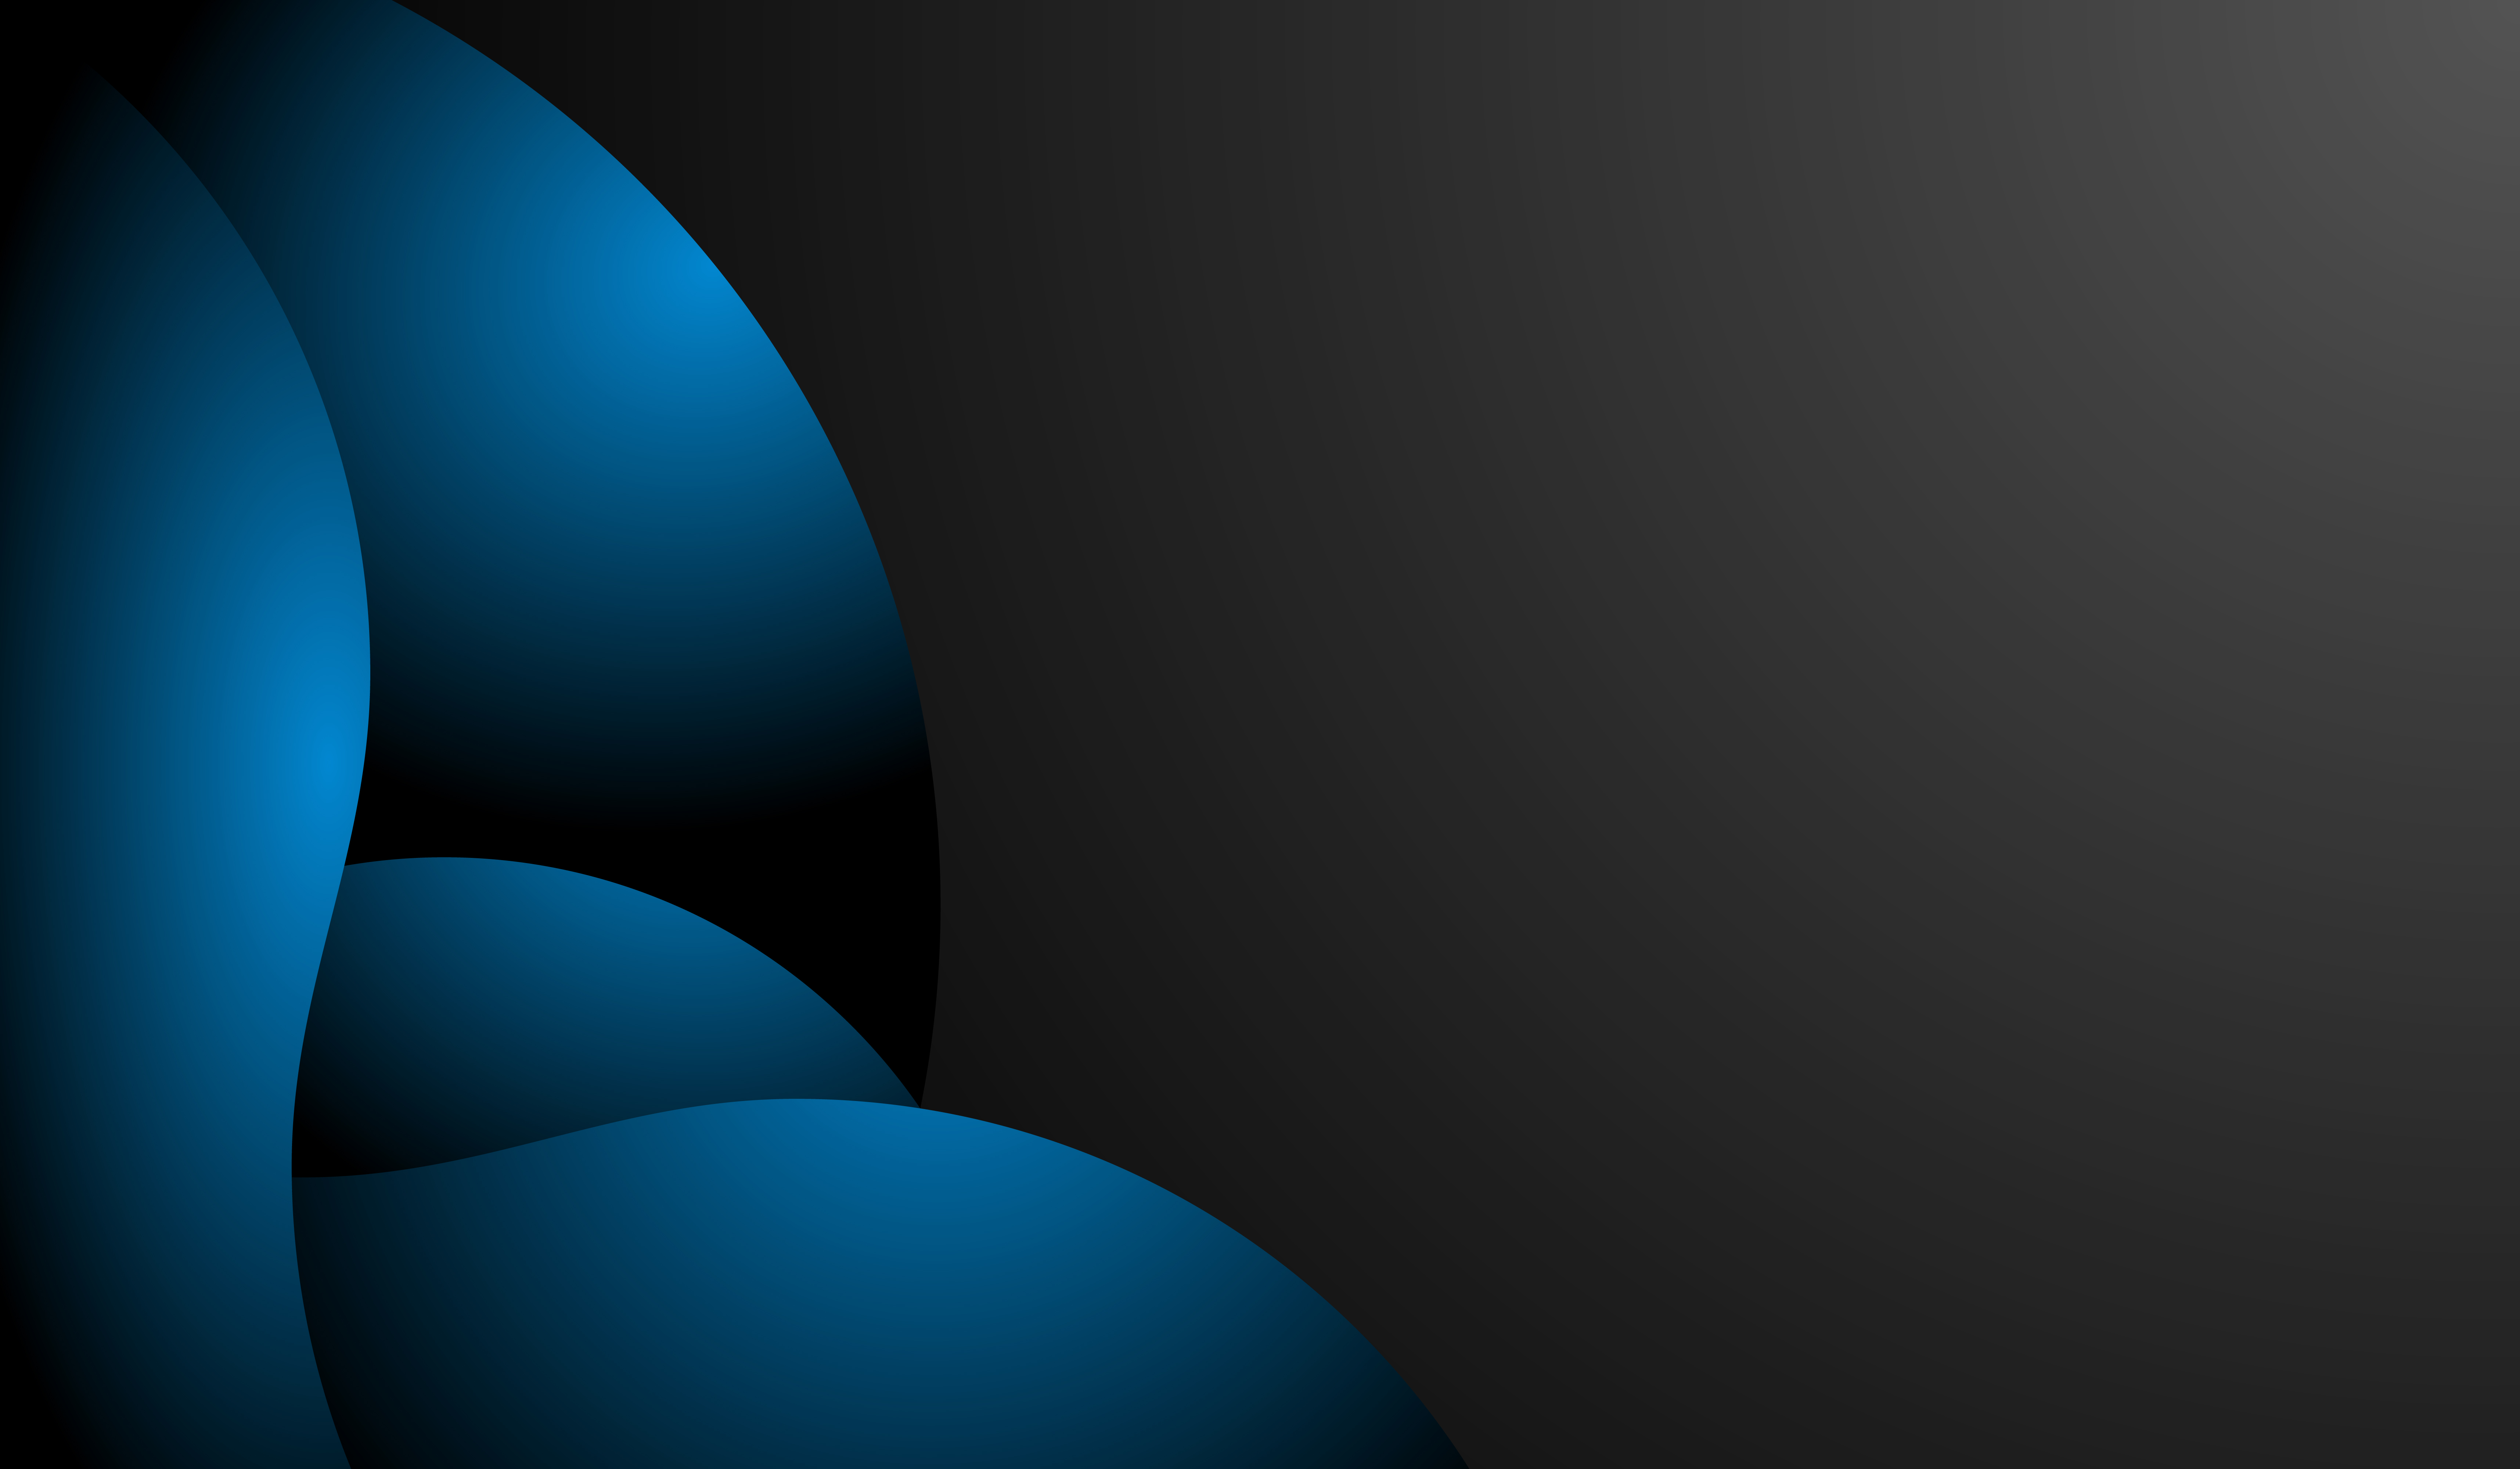
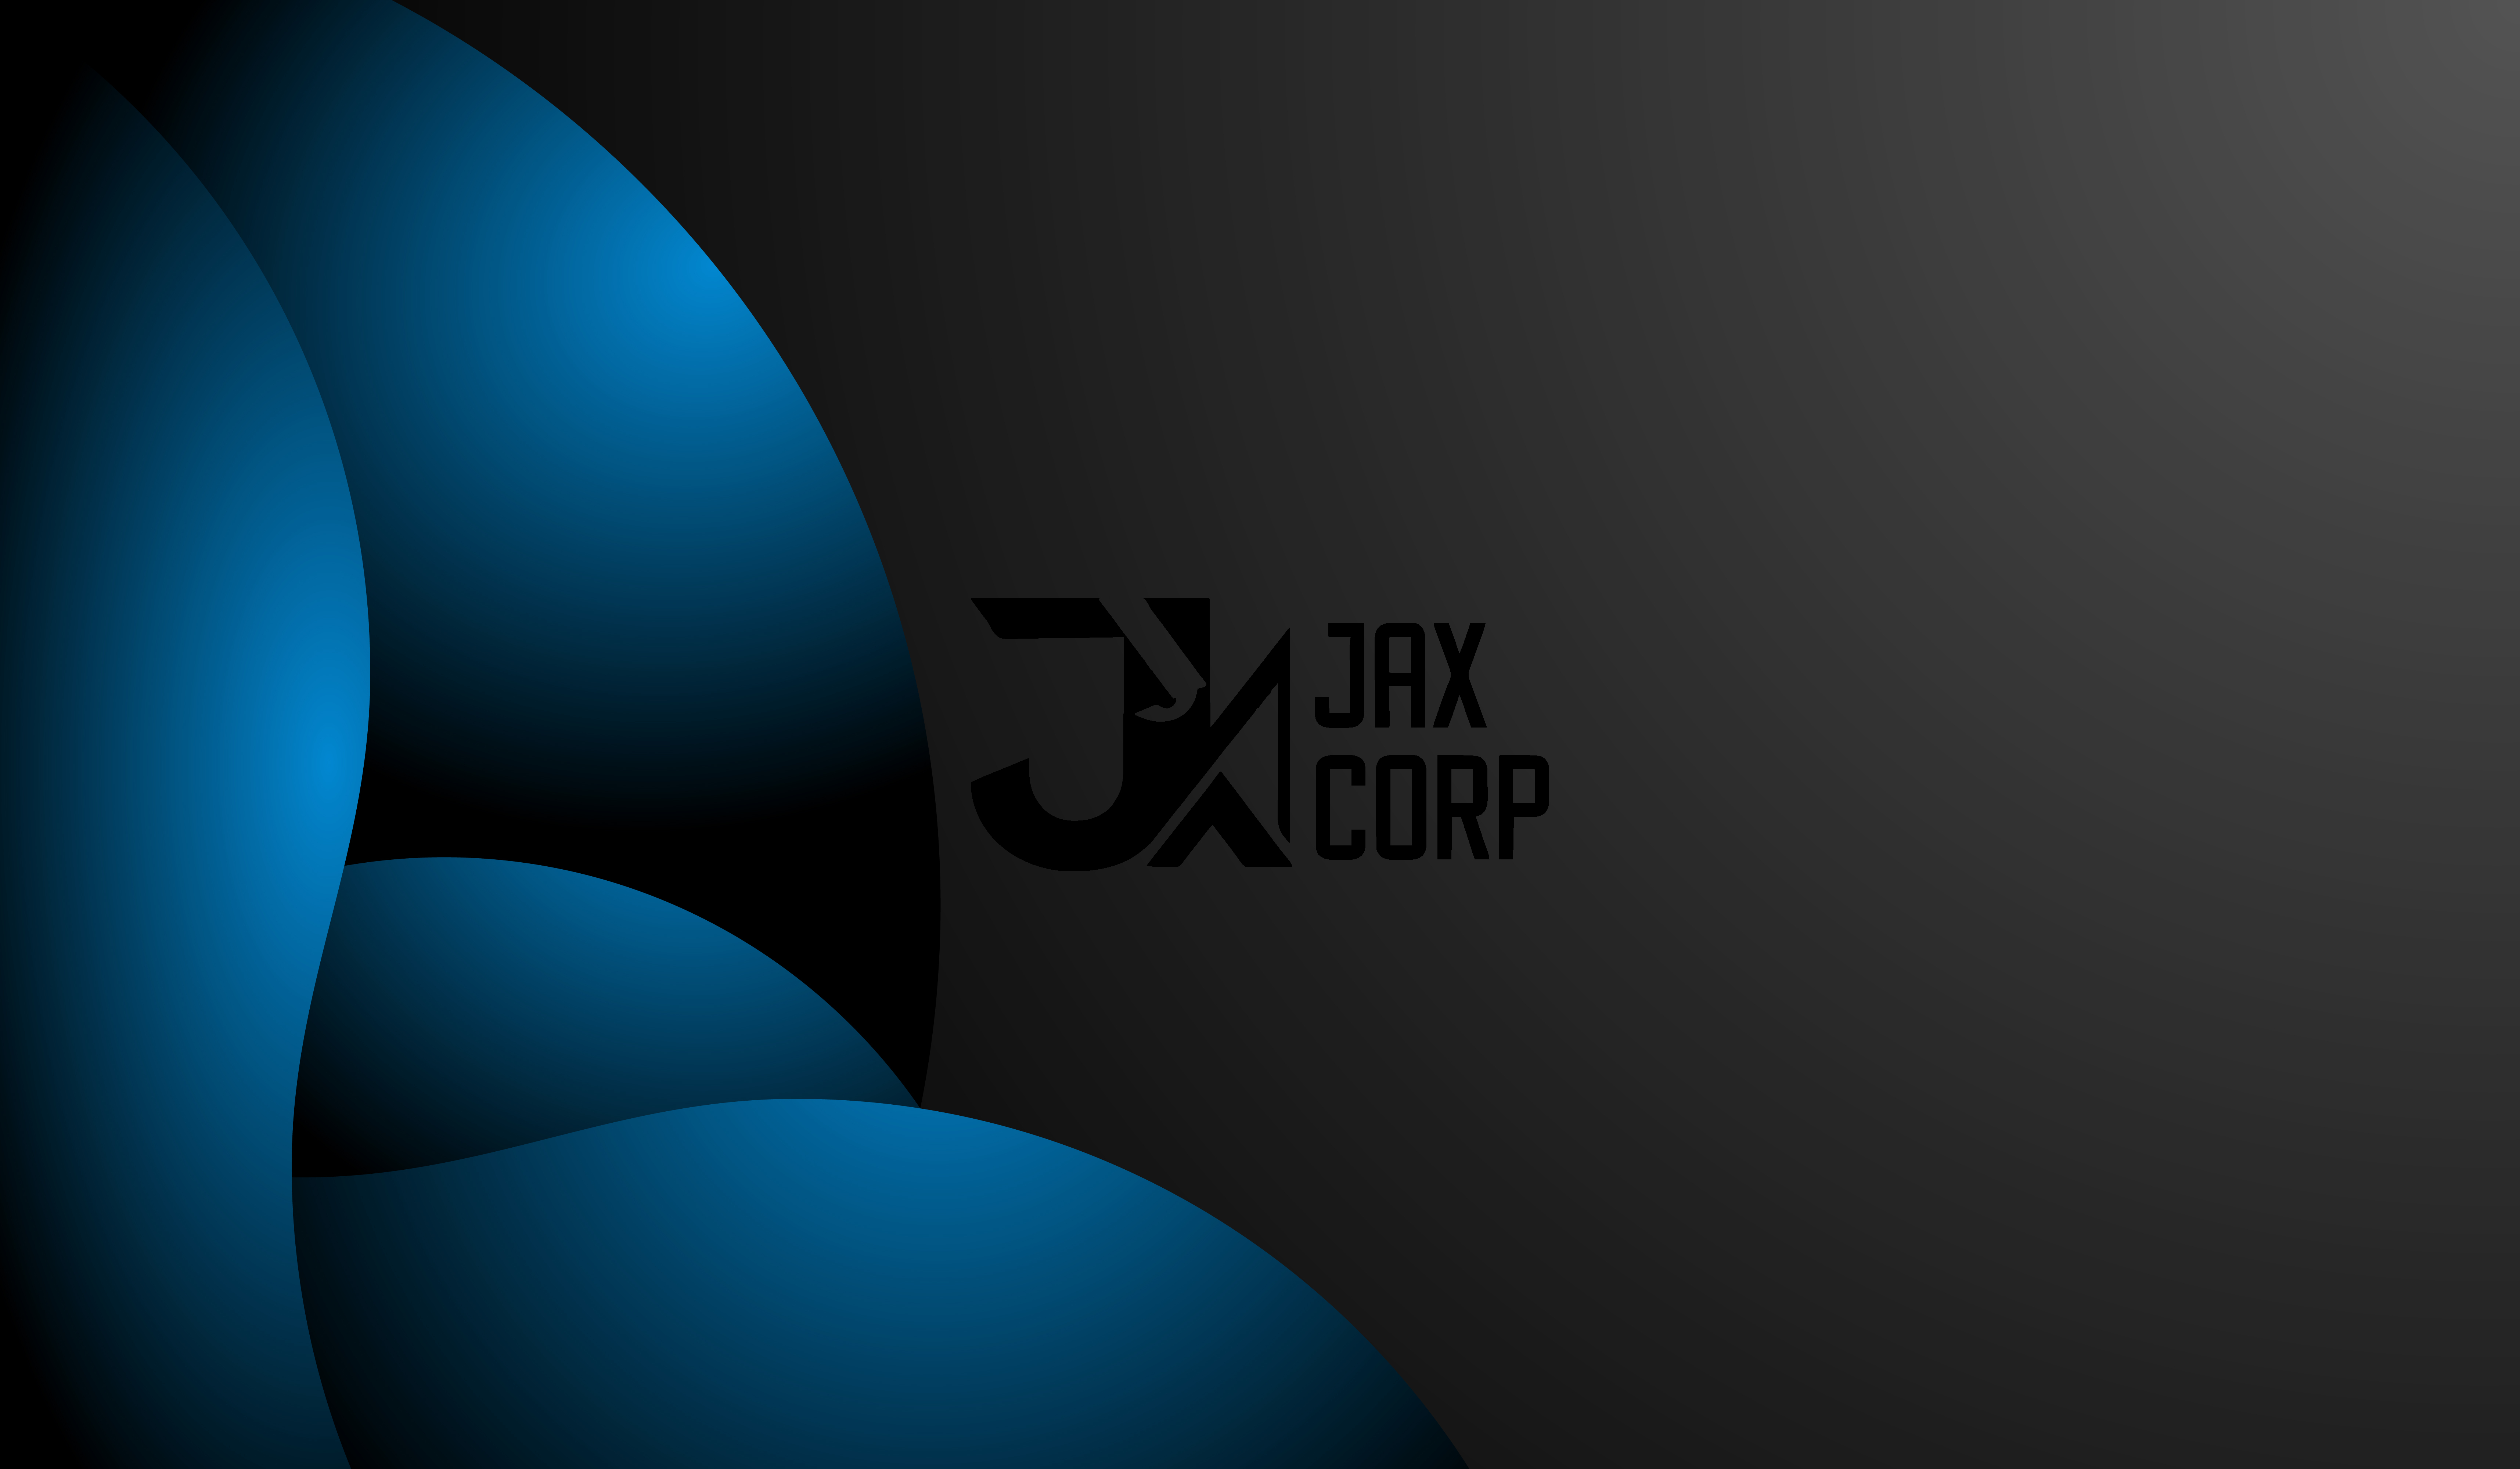
added video filter; videos only play 5 seconds; new bg image; fixes to login page

Changed region(s): [[0.3743, 0.4062, 0.6239, 0.5938]]

diff --git a/Vector/desktop.html b/Vector/desktop.html
@@ -142,14 +142,15 @@
     #player-overlay {
       display:none;
       position:fixed; inset:0;
-      background:rgba(0,0,0,0.85);
+      background:#000;
       z-index:200;
       align-items:center; justify-content:center;
     }
     #player-overlay.active { display:flex; }
 
     #player-window {
-      width:min(680px,96vw);
+      width: 98vw;
+      height: 97vh;
       background:#1c1c1c;
       border:2px solid #555;
       box-shadow:0 8px 60px rgba(0,0,0,0.9);
@@ -161,7 +162,7 @@
     /* WMP-style titlebar */
     #player-titlebar {
       background: linear-gradient(to right, #1a1a2a 0%, #2a3a6a 60%, #1a1a2a 100%);
-      height:28px; display:flex; align-items:center;
+      height:28px; flex-shrink:0; display:flex; align-items:center;
       padding:0 8px; gap:6px;
       border-bottom:1px solid #333;
     }
@@ -185,7 +186,7 @@
     /* menu bar */
     #player-menu {
       background:#111; border-bottom:1px solid #222;
-      padding:2px 6px;
+      padding:2px 6px; flex-shrink:0;
       display:flex; gap:14px;
     }
     .pm-item {
@@ -194,26 +195,71 @@
     }
     .pm-item:hover { background:#2a2a3a; color:#bbb; }
 
-    /* video area */
+    /* video area — flex-grow so it fills all space */
     #video-container {
       background:#000;
       position:relative;
-      width:100%; aspect-ratio:16/9;
+      flex:1;
+      min-height:0;
       display:flex; align-items:center; justify-content:center;
+      overflow:hidden;
     }
     #main-video {
       width:100%; height:100%; object-fit:contain;
       display:block;
     }
+    /* grain canvas sits on top of video */
+    #grain-canvas {
+      position:absolute; inset:0;
+      width:100%; height:100%;
+      pointer-events:none;
+      mix-blend-mode: screen;
+      opacity:0.18;
+    }
+    /* vhs color aberration bars */
+    #vhs-overlay {
+      position:absolute; inset:0;
+      pointer-events:none;
+      background: repeating-linear-gradient(
+        to bottom,
+        transparent 0px,
+        transparent 3px,
+        rgba(0,0,0,0.04) 3px,
+        rgba(0,0,0,0.04) 4px
+      );
+      mix-blend-mode: multiply;
+    }
+    /* chromatic shift */
+    #chroma-overlay {
+      position:absolute; inset:0; pointer-events:none;
+      background: transparent;
+      box-shadow: inset 3px 0 0 rgba(255,0,0,0.08), inset -3px 0 0 rgba(0,180,255,0.06);
+    }
+    /* vignette */
+    #vignette {
+      position:absolute; inset:0; pointer-events:none;
+      background: radial-gradient(ellipse at center, transparent 55%, rgba(0,0,0,0.65) 100%);
+    }
+    /* timecode stamp */
+    #timecode {
+      position:absolute; bottom:8px; left:12px;
+      font-family:'Courier New',monospace; font-size:13px;
+      color:rgba(255,255,200,0.75);
+      text-shadow:1px 1px 3px #000;
+      pointer-events:none;
+      letter-spacing:0.05em;
+    }
     #video-placeholder {
       color:#333; font-family:Tahoma,sans-serif; font-size:13px;
       text-align:center; padding:20px;
+      position:absolute;
     }
 
     /* progress / controls */
     #player-controls {
       background:#1a1a1a; padding:6px 8px 4px;
       border-top:1px solid #2a2a2a;
+      flex-shrink:0;
     }
     #seek-track {
       width:100%; height:8px;
@@ -304,7 +350,7 @@
       <!-- shine -->
       <path d="M6 20 Q24 18 42 22" stroke="#ffe97a" stroke-width="1.5" opacity="0.7"/>
     </svg>
-    <div class="icon-label">CLASSIFIED</div>
+    <div class="icon-label">33.9425-118.4385</div>
   </div>
 </div>
 
@@ -342,7 +388,6 @@
     <path d="M50 44 C54 44 56 48 56 52 C56 56 54 60 50 62" stroke="white" stroke-width="1.5" stroke-linecap="round" fill="none"/>
   </svg>
   <div id="fp-text">PLEASE SCAN FINGERPRINT</div>
-  <div style="color:#444;font-size:12px;font-family:Tahoma,sans-serif;margin-top:20px;">click to continue</div>
 </div>
 
 <!-- MEDIA PLAYER -->
@@ -366,6 +411,11 @@
 
     <div id="video-container">
       <video id="main-video" preload="auto"></video>
+      <canvas id="grain-canvas"></canvas>
+      <div id="vhs-overlay"></div>
+      <div id="chroma-overlay"></div>
+      <div id="vignette"></div>
+      <div id="timecode"></div>
       <div id="video-placeholder">Loading media library...</div>
     </div>
 
@@ -504,29 +554,23 @@
     document.getElementById('btn-play').textContent = '❚❚ Pause';
     document.getElementById('btn-play').classList.add('active');
     renderPlaylist();
-    // update seek
     updateSeek();
   }
 
-  function updateSeek() {
-    if (!vid.duration) {
-      document.getElementById('seek-fill').style.width = '0%';
-      document.getElementById('time-display').textContent = '0:00 / 0:00';
-      return;
+  // Fix 7: advance to next track after 5 seconds
+  vid.addEventListener('timeupdate', () => {
+    updateSeek();
+    if (vid.currentTime >= 5) {
+      if (currentIndex + 1 < playlist.length) {
+        loadTrack(currentIndex + 1);
+      } else {
+        vid.pause();
+        document.getElementById('status-text').textContent = 'End of playlist.';
+        document.getElementById('btn-play').textContent = '▶ Play';
+      }
     }
-    const pct = (vid.currentTime / vid.duration) * 100;
-    document.getElementById('seek-fill').style.width = pct + '%';
-    document.getElementById('time-display').textContent =
-      fmt(vid.currentTime) + ' / ' + fmt(vid.duration);
-  }
+  });
 
-  function fmt(s) {
-    const m = Math.floor(s/60);
-    const sec = Math.floor(s%60).toString().padStart(2,'0');
-    return m+':'+sec;
-  }
-
-  vid.addEventListener('timeupdate', updateSeek);
   vid.addEventListener('ended', () => {
     if (currentIndex + 1 < playlist.length) {
       loadTrack(currentIndex + 1);
@@ -535,6 +579,66 @@
       document.getElementById('btn-play').textContent = '▶ Play';
     }
   });
+
+  // Fix 8: grain/camcorder canvas
+  const grainCanvas = document.getElementById('grain-canvas');
+  const grainCtx = grainCanvas.getContext('2d');
+  const timecodeEl = document.getElementById('timecode');
+
+  function resizeGrain() {
+    const vc = document.getElementById('video-container');
+    grainCanvas.width = vc.offsetWidth;
+    grainCanvas.height = vc.offsetHeight;
+  }
+  resizeGrain();
+  window.addEventListener('resize', resizeGrain);
+
+  let grainFrame = 0;
+  function drawGrain() {
+    const w = grainCanvas.width, h = grainCanvas.height;
+    if (w === 0 || h === 0) { requestAnimationFrame(drawGrain); return; }
+
+    const imageData = grainCtx.createImageData(w, h);
+    const data = imageData.data;
+    for (let i = 0; i < data.length; i += 4) {
+      const v = (Math.random() * 255) | 0;
+      data[i]   = v;
+      data[i+1] = v;
+      data[i+2] = v;
+      data[i+3] = (Math.random() * 60 + 20) | 0; // partial alpha for subtlety
+    }
+    grainCtx.putImageData(imageData, 0, 0);
+
+    // occasional horizontal jitter bar (VHS artifact)
+    if (Math.random() < 0.04) {
+      const by = (Math.random() * h) | 0;
+      const bh = (Math.random() * 6 + 1) | 0;
+      grainCtx.fillStyle = `rgba(255,255,255,${Math.random()*0.12})`;
+      grainCtx.fillRect(0, by, w, bh);
+    }
+
+    // timecode
+    grainFrame++;
+    if (!vid.paused && vid.currentTime > 0) {
+      const tc = fmtTimecode(vid.currentTime);
+      const d = new Date();
+      timecodeEl.textContent =
+        `REC ● ${d.getFullYear()}.${String(d.getMonth()+1).padStart(2,'0')}.${String(d.getDate()).padStart(2,'0')} ${tc}`;
+    } else {
+      timecodeEl.textContent = '';
+    }
+
+    requestAnimationFrame(drawGrain);
+  }
+  drawGrain();
+
+  function fmtTimecode(s) {
+    const h = Math.floor(s/3600);
+    const m = Math.floor((s%3600)/60);
+    const sec = Math.floor(s%60);
+    const fr = Math.floor((s % 1) * 30);
+    return [h,m,sec,fr].map(x=>String(x).padStart(2,'0')).join(':');
+  }
 
   function togglePlay() {
     if (vid.paused) {

diff --git a/Vector/login.html b/Vector/login.html
@@ -124,25 +124,38 @@
       position: relative;
       display: flex;
       align-items: center;
+      overflow: hidden;
     }
     .prompt-input-wrap input {
-      width: 100%;
+      position: absolute;
+      left: 0; top: 0;
+      width: 100%; height: 100%;
       background: transparent;
       border: none;
       outline: none;
       color: transparent;
-      caret-color: #b0c8b0;
+      caret-color: transparent;
       font-family: inherit;
       font-size: 13px;
-      padding: 0 4px;
-      letter-spacing: 0.05em;
+      padding: 0;
+      letter-spacing: 0.12em;
+      z-index: 2;
     }
+    /* stars + cursor rendered as inline flow so cursor is always at end */
     .stars-display {
-      position: absolute;
-      left: 4px;
+      display: flex;
+      align-items: center;
       color: #b0c8b0;
       pointer-events: none;
       letter-spacing: 0.12em;
+      white-space: nowrap;
+      z-index: 1;
+    }
+    .stars-display .cursor {
+      display: inline-block;
+      width: 1ch;
+      letter-spacing: 0;
+      animation: blink 1.1s steps(1) infinite;
     }
 
     .divider {
@@ -254,14 +267,14 @@
       <div class="user-row">
         <span class="user-label">C:\USERS\&gt;&nbsp;</span>
         <span class="user-val">LOGIN &nbsp;&nbsp;USERNAME:&nbsp;</span>
-        <span class="user-val" style="color:#d0d0d0">AGENT_<span id="username-display">???</span></span>
+        <span class="user-val" style="color:#d0d0d0">AGENT_RU-486</span>
       </div>
 
       <div class="prompt-row">
         <span class="prompt-label">C:\USERS\&gt;&nbsp;</span>
         <span style="color:#b0c8b0; white-space:nowrap;">PASSWORD:&nbsp;</span>
         <div class="prompt-input-wrap">
-          <div class="stars-display" id="stars-display"></div>
+          <div class="stars-display" id="stars-display"><span class="cursor">█</span></div>
           <input
             type="text"
             id="pw-input"
@@ -270,7 +283,6 @@
             autofocus
           />
         </div>
-        <span class="blink" style="color:#b0c8b0; margin-left:1px;">█</span>
       </div>
 
       <div id="error-msg"></div>
@@ -291,11 +303,6 @@
 </div>
 
 <script>
-  // random username
-  const names = ['MAXWELL','TORRES','CHEN','BLAKE','MORGAN','SHAW','PRICE','COLE'];
-  document.getElementById('username-display').textContent =
-    names[Math.floor(Math.random()*names.length)];
-
   // clock
   function tick() {
     const n = new Date();
@@ -304,28 +311,32 @@
   }
   tick(); setInterval(tick, 1000);
 
-  // password masking
+  // password masking — stars + blinking cursor always at end
   const input = document.getElementById('pw-input');
   const starsEl = document.getElementById('stars-display');
   let pwValue = '';
 
+  function renderStars() {
+    starsEl.innerHTML = '*'.repeat(pwValue.length) +
+      '<span class="cursor">█</span>';
+  }
+
   input.addEventListener('keydown', e => {
-    if (e.key === 'Enter') { doLogin(); return; }
+    if (e.key === 'Enter') { e.preventDefault(); doLogin(); return; }
     if (e.key === 'Backspace') {
       pwValue = pwValue.slice(0,-1);
     } else if (e.key.length === 1) {
       pwValue += e.key;
     }
-    // keep input empty so no text shows
     e.preventDefault();
-    starsEl.textContent = '*'.repeat(pwValue.length);
+    renderStars();
   });
 
   let attempts = 3;
 
   function clearPw() {
     pwValue = '';
-    starsEl.textContent = '';
+    renderStars();
     input.focus();
     document.getElementById('error-msg').textContent = '';
   }
@@ -336,7 +347,6 @@
         '> ERROR: Password field is empty.';
       return;
     }
-    // any password works — go to desktop
     window.location.href = 'desktop.html';
   }
 </script>